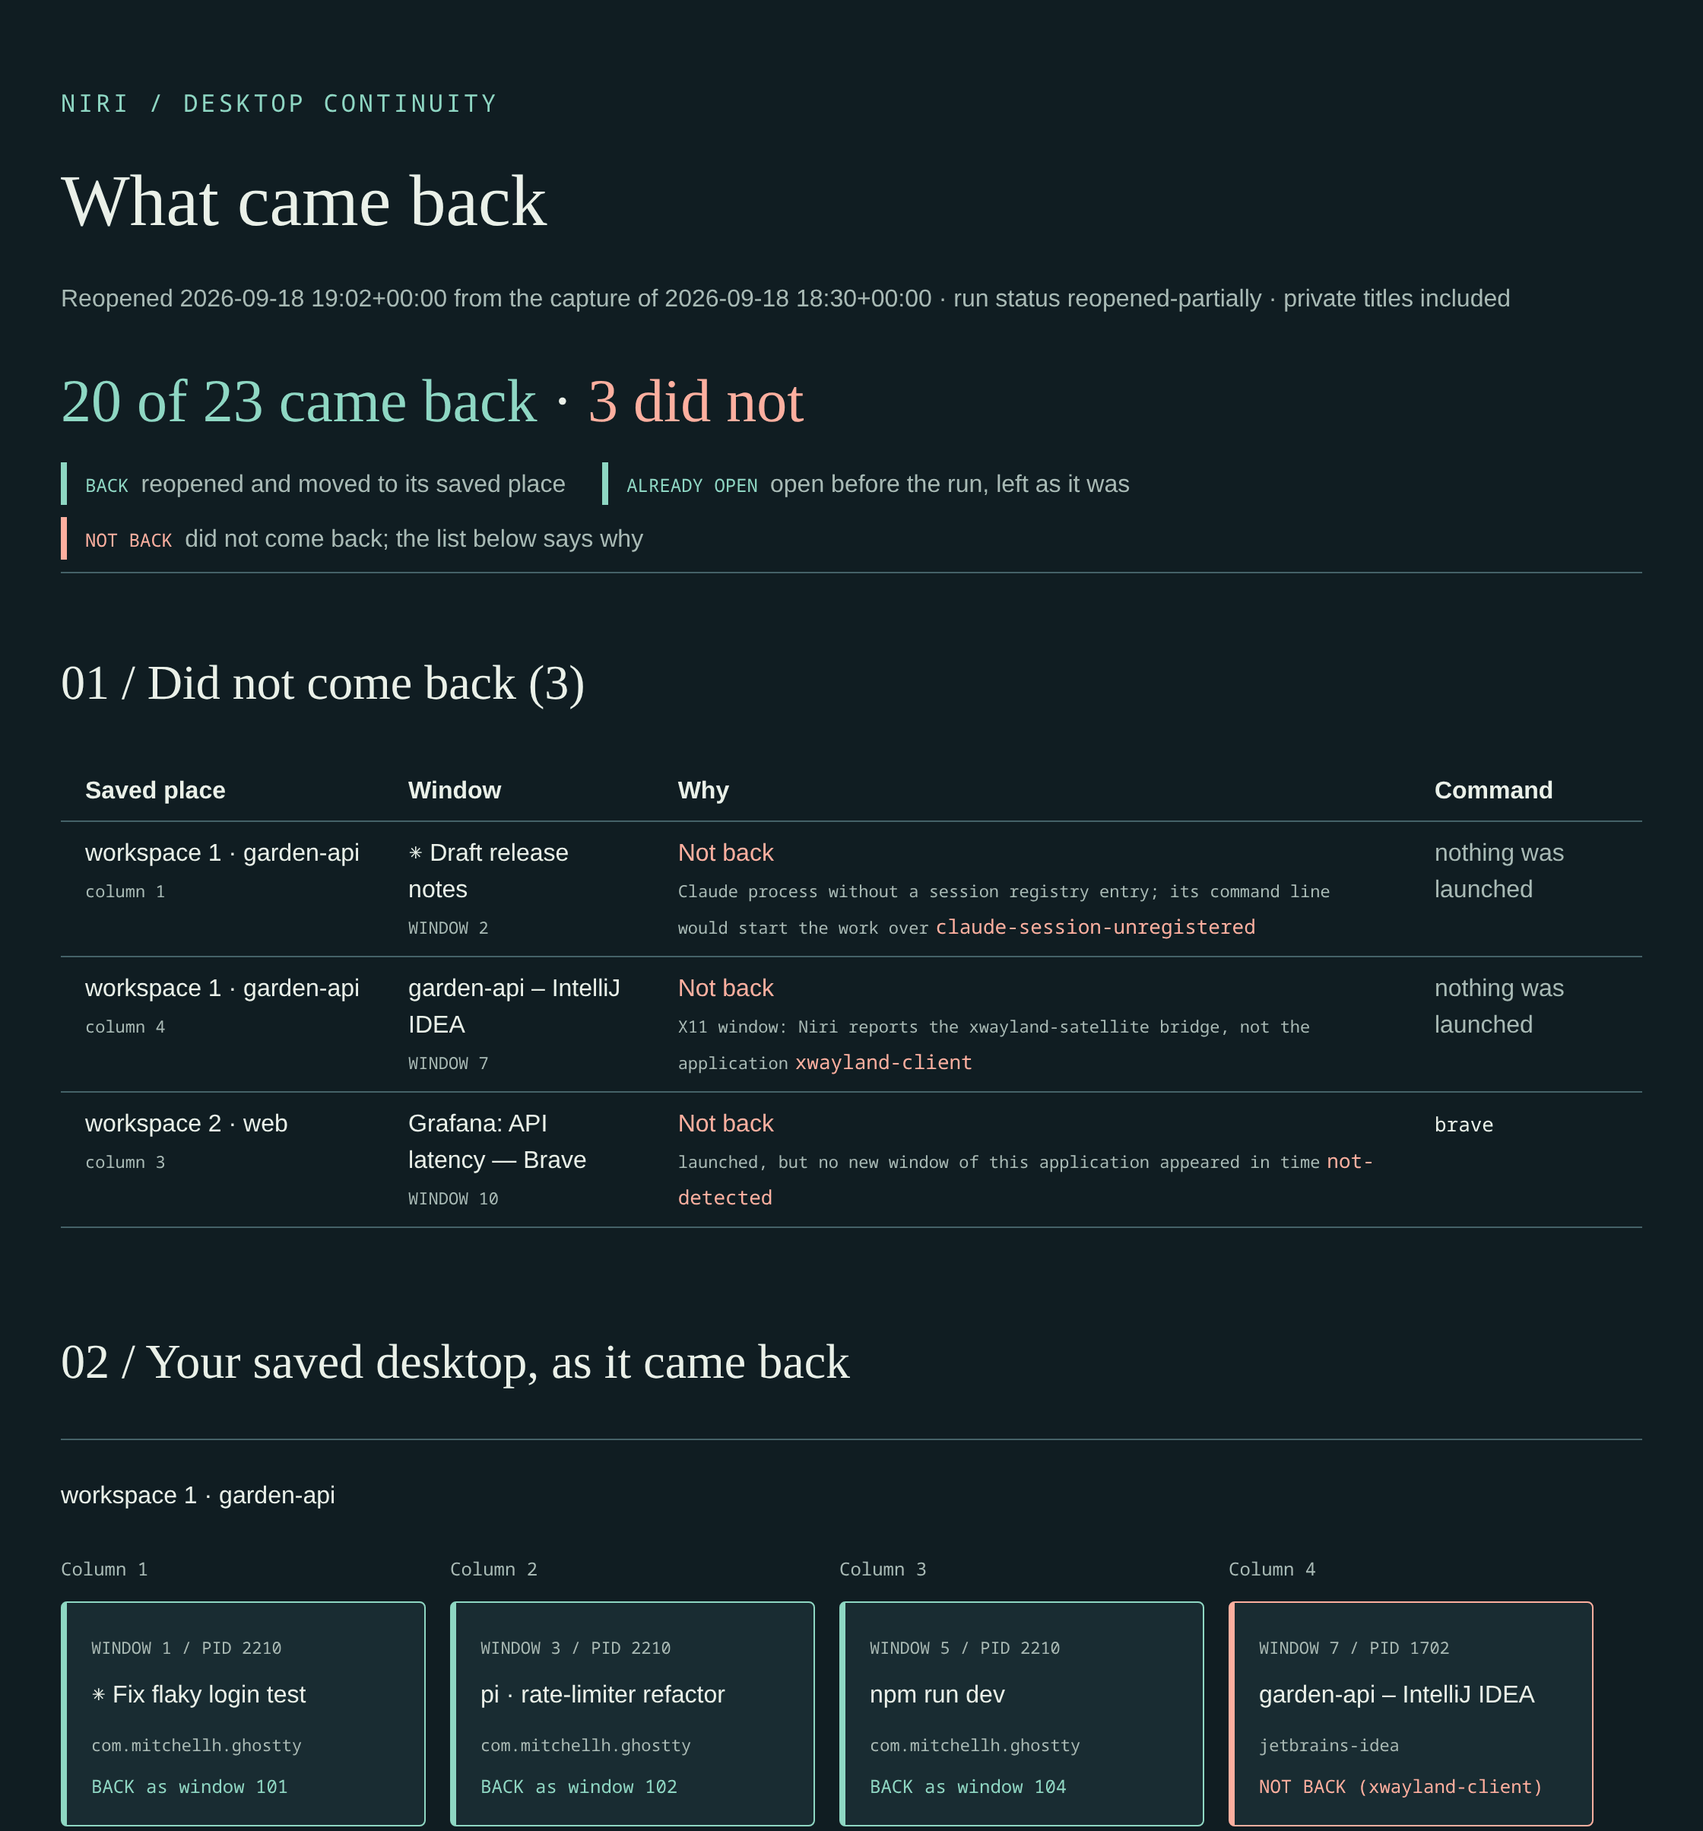
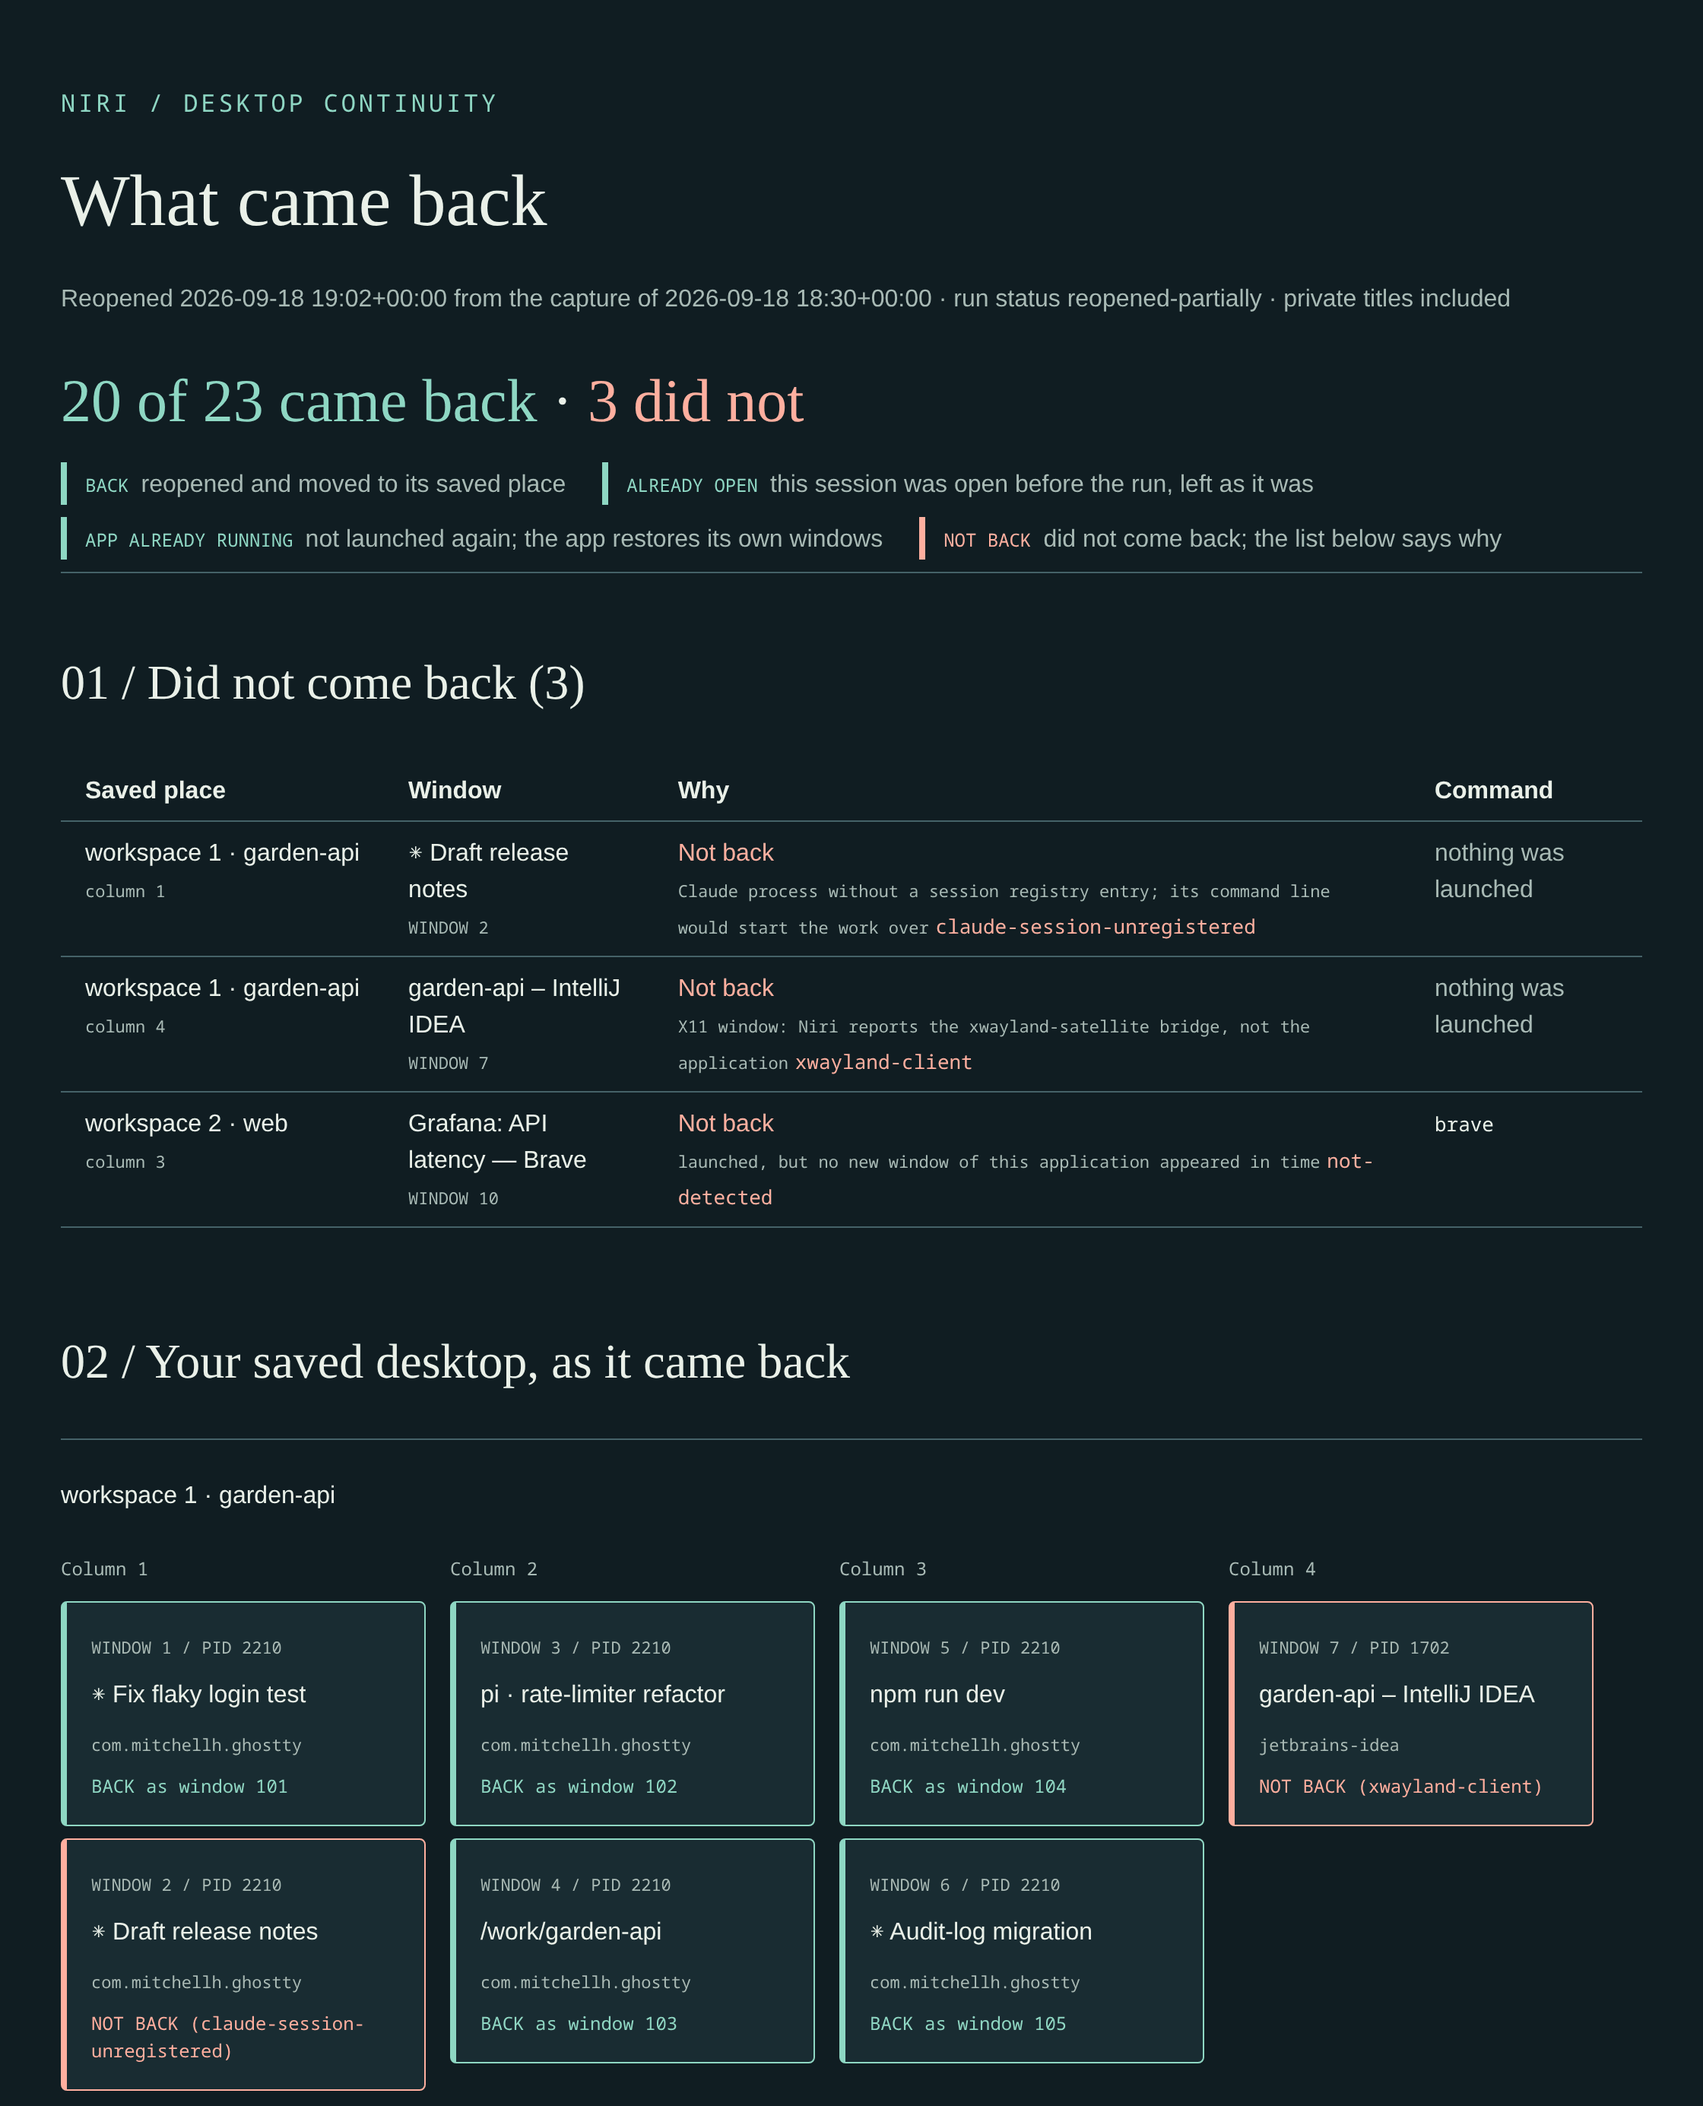
docs(readme): every claim true in code after the third verification
A third read-only check of the committed README against the source
confirmed the six earlier false claims are now true and found one more:
"other terminals reopen without what ran inside them" is false when the
terminal was launched with a command (`kitty -e claude <prompt>`), whose
saved command line replays it. The README now says so under Limits, and
the agent promises name their real scope, a Ghostty tab or a window of
the agent's own. Closing the gap in code is separate work.

Also corrected, as the check proposed: the preview shows saved recipes,
which routes and desktop entries can change (`restore` shows the current
plan); a refused or skipped run writes no result page; the tagline names
which windows stay closed; the nested-Claude example no longer asserts
an upstream fact.

The result page now tells an application that was already running
(APP ALREADY RUNNING: not launched again, the app restores its own
windows) apart from a session that was already open (ALREADY OPEN),
since a running browser says nothing about each saved window. The
legend, design contract, usage, changelog and README screenshot follow.

diff --git a/tests/test_reopen_report.py b/tests/test_reopen_report.py
@@ -105,7 +105,7 @@ def test_page_says_what_came_back_and_lists_every_miss_with_its_reason():
     assert ".back{" in markup and "var(--colors-success)" in markup
     assert ".missed{" in markup and "var(--colors-error)" in markup
     legend = markup[markup.index('class="legend"') : markup.index("</ul>")]
-    for term in ("BACK</b>", "ALREADY OPEN</b>", "NOT BACK</b>"):
+    for term in ("BACK</b>", "ALREADY OPEN</b>", "APP ALREADY RUNNING</b>", "NOT BACK</b>"):
         assert term in legend
 
 
@@ -366,4 +366,4 @@ def test_documentation_demo_run_is_fabricated_and_shows_all_three_outcomes():
     missed = section(markup, "did-not-come-back")
     for code in ("claude-session-unregistered", "xwayland-client", "not-detected"):
         assert f"<code>{code}</code>" in missed
-    assert "ALREADY OPEN" in tile(markup, 16) and "BACK as window 101" in tile(markup, 1)
+    assert "APP ALREADY RUNNING" in tile(markup, 16) and "BACK as window 101" in tile(markup, 1)

diff --git a/src/niri_desktop_continuity/reopen_report.py b/src/niri_desktop_continuity/reopen_report.py
@@ -39,7 +39,9 @@ CSS = """
 LEGEND = (
     '<ul class="legend">'
     '<li class="back"><b>BACK</b>reopened and moved to its saved place</li>'
-    '<li class="back"><b>ALREADY OPEN</b>open before the run, left as it was</li>'
+    '<li class="back"><b>ALREADY OPEN</b>this session was open before the run, left as it was</li>'
+    '<li class="back"><b>APP ALREADY RUNNING</b>not launched again; the app restores its own windows'
+    "</li>"
     '<li class="missed"><b>NOT BACK</b>did not come back; the list below says why</li></ul>'
 )
 
@@ -65,6 +67,8 @@ def badge(row: dict) -> str:
     status = row.get("status")
     if status == "placed":
         return f"BACK as window {escape(row.get('restored_window_id'))}"
+    if status == "already-running":
+        return "APP ALREADY RUNNING"
     if status in BACK:
         return "ALREADY OPEN"
     return f"NOT BACK ({escape(code(row))})"

diff --git a/README.md b/README.md
@@ -6,8 +6,8 @@
 
 **Reboot, log in, and your [niri](https://github.com/YaLTeR/niri) desktop comes back.** Windows
 reopen on their workspaces, in their columns, at their widths. Coding-agent sessions in
-[Ghostty](https://ghostty.org) resume by id. What it cannot reopen safely stays closed and is
-reported.
+[Ghostty](https://ghostty.org) resume by id. Windows it knows it cannot reopen safely, such as X11
+apps and agent tabs without a known session, stay closed and are reported.
 
 It is a single command-line tool built on Python's standard library. Once you opt in, it saves your
 desktop every 15 minutes and reopens it at login. It runs no daemon and makes no network requests.
@@ -29,7 +29,7 @@ says how its window comes back after a reboot, or why it will not.</sub>
 | Codex, or another agent whose `SessionStart` hook passes its session id | The session it announced through `hook` |
 | A command in a Ghostty tab | The same command, started again (`btop`, `just dev`) |
 | A shell in a Ghostty tab | A shell in the same directory |
-| An X11 window, or an agent with no known session | Not reopened; the preview and the plan say why |
+| An X11 window, or an agent tab in Ghostty with no known session | Not reopened; the preview and the plan say why |
 
 Applications restore their own content. Tabs, documents and drafts are theirs to bring back.
 
@@ -39,7 +39,7 @@ Applications restore their own content. Tabs, documents and drafts are theirs to
 - Python 3.11 or newer. There are no third-party runtime dependencies.
 - `xdg-open` (xdg-utils), to open the result page. Without it the page is still written.
 - Ghostty, for terminal tabs and the sessions in them. Other terminals reopen as ordinary
-  applications, without what ran inside them.
+  applications; see [Limits](#limits).
 
 ## Install
 
@@ -61,8 +61,9 @@ niri-desktop-continuity capture
 niri-desktop-continuity preview    # prints the path of an offline HTML page; open it in a browser
 ```
 
-The page's **After a reboot** section lists every saved window with its reopen recipe (kind, command
-and directory) or the reason it will not reopen.
+The page's **After a reboot** section lists every saved window with its saved reopen recipe (kind,
+command and directory) or the reason it will not reopen. Your routes and desktop entries can change
+the command that actually runs; `restore` without `--apply` shows the plan for the current desktop.
 
 ![The "After a reboot" section of the preview for the same demo desktop: 21 of 23 reopen; an unregistered Claude session and an X11 IDE will not, each with its reason](https://raw.githubusercontent.com/tryingET/niri-desktop-continuity/main/docs/assets/preview-after-reboot.png)
 
@@ -91,9 +92,12 @@ niri has no atomic focus-and-move, so input during the run can send a column to 
 
 When the run is over, its result page opens in your browser: that is your sign that the windows have
 settled. It says how many windows came back, lists every window that did not with the reason, and
-shows your saved desktop with each window marked `BACK`, `ALREADY OPEN` or `NOT BACK`.
+shows your saved desktop with each window marked `BACK`, `ALREADY OPEN` (a session that was open
+already), `APP ALREADY RUNNING` (not launched again; the app restores its own windows) or
+`NOT BACK`. A run that was refused or skipped, for example because the capture came from the niri
+that is running now, writes no page; the journal below says why.
 
-![The result page of a fabricated login run on the demo desktop: 20 of 23 came back and 3 did not, a legend for BACK, ALREADY OPEN and NOT BACK, the three misses with their reasons, then the saved desktop with each window marked](https://raw.githubusercontent.com/tryingET/niri-desktop-continuity/main/docs/assets/reopen-result.png)
+![The result page of a fabricated login run on the demo desktop: 20 of 23 came back and 3 did not, a legend for BACK, ALREADY OPEN, APP ALREADY RUNNING and NOT BACK, the three misses with their reasons, then the saved desktop with each window marked](https://raw.githubusercontent.com/tryingET/niri-desktop-continuity/main/docs/assets/reopen-result.png)
 
 <sub>A fabricated login run on the demo desktop: Thunderbird had started itself, Brave reopened two of
 its three windows, and the two windows that are never replayed stayed closed.</sub>
@@ -144,9 +148,10 @@ second time.
 ## Agent sessions
 
 A recognised agent (`claude`, `codex`, `pi`, `angel` or `angelx`, `aider`, `gemini`, `opencode`, `goose`,
-`crush`, `qwen`, `grok`, `cursor-agent`) comes back only through a session it announced or one you
-declared. It is never relaunched from its command line, which would replay its opening prompt and
-start the same work over.
+`crush`, `qwen`, `grok`, `cursor-agent`) in a Ghostty tab or in a window of its own comes back only
+through a session it announced or one you declared. It is never relaunched from its command line,
+which would replay its opening prompt and start the same work over. Other terminals are not looked
+inside; see [Limits](#limits).
 
 - **Claude Code and Pi:** read directly. Nothing to set up.
 - **nodecode 0.1.6 and later:** records its own session. Nothing to set up.
@@ -163,8 +168,8 @@ start the same work over.
   where a tab should come back.
 - **angelX:** cannot announce a session yet, so its tabs are not reopened unless you declare them.
 
-A session this tool cannot resume, such as a Claude Code session started inside another one (it has
-no registry entry), can come back as a fresh session. Declare it while it still runs:
+A session this tool cannot resume, such as a Claude Code session missing from Claude's session
+registry, can come back as a fresh session. Declare it while it still runs:
 
 ```sh
 niri-desktop-continuity declare --pid <pid> -- claude "Continue from docs/handoff.md"
@@ -182,8 +187,8 @@ When it saves and reopens your desktop:
   go after them. Input during the run can still misdirect a move, which is why you stay idle.
 - **It launches each saved application instance at most once.** Only new windows with that
   application's app ID are adopted, never a window of another application.
-- **It does not replay an agent it cannot resume.** A recognised agent without an announced session
-  or a declaration is not relaunched.
+- **It does not replay an agent it cannot resume.** A recognised agent in a Ghostty tab or in a
+  window of its own is not relaunched without an announced session or a declaration.
 - **It refuses what it cannot identify.** An X11 window, an AppImage it cannot resolve or a window
   whose process it cannot read is reported, not launched.
 - **It drops saved sign-in and deep links.** When an application falls back to its saved command
@@ -208,6 +213,9 @@ When it saves and reopens your desktop:
 - **Applications decide how many windows they reopen.** If a browser restores fewer windows than were
   saved, the rest are reported `not-detected`; it is never launched a second time.
 - **Sessions in other tabs of one Ghostty window reopen as separate windows.**
+- **Other terminals are not looked inside.** kitty, foot, Alacritty, WezTerm and the rest reopen
+  from their own command line: what you started in them is not reopened, but a command they were
+  launched with (`kitty -e …`) runs again, even an agent with its opening prompt.
 - **Workspaces are matched by position, not by monitor.** Windows return to the first, second or
   third workspace and so on, with empty gaps closed up; which monitor they were on is not restored.
   Saved workspace names are set again, even on a workspace that has another name now.

diff --git a/DESIGN.md b/DESIGN.md
@@ -74,7 +74,8 @@ columns run horizontally with tiles grouped inside them. Floating windows have a
 
 Use the front-matter palette. Amber always means caution, not successful recovery. Teal may
 mark selected scope or a measured predicate, never unverified application state. On a reopen
-result page, success marks a window Niri reported during the run (back, or already open) and error
+result page, success marks a window Niri reported during the run (back, already open, or its
+application already running) and error
 marks one that did not come back. Both repeat a text status; application content stays unverified.
 
 ## Typography
@@ -108,10 +109,11 @@ On snapshot previews each tile states its reopen outcome in text (`reopens as <k
 `not reopened (<reason>)`), and the after-reboot ledger lists every window and tab session with
 a count summary, the exact recorded command and a plain-language reason for each miss. A miss is
 amber (caution); a reopen is plain text, never teal, because a recipe is not verified state.
-On a reopen result page each tile states `BACK as window <id>`, `ALREADY OPEN` or
-`NOT BACK (<reason>)`, with a 4px left edge in success or error, and each tab session gets its own
-line. A legend under the summary explains the three outcomes. The did-not-come-back list gives the saved place, the window, a plain-language reason with
-its code and the launched command, or that nothing was launched.
+On a reopen result page each tile states `BACK as window <id>`, `ALREADY OPEN` (a session),
+`APP ALREADY RUNNING` or `NOT BACK (<reason>)`, with a 4px left edge in success or error, and each
+tab session gets its own line. A legend under the summary explains the outcomes. The
+did-not-come-back list gives the saved place, the window, a plain-language reason with its code and
+the launched command, or that nothing was launched.
 
 ## Do's and Don'ts
 

diff --git a/docs/usage.md b/docs/usage.md
@@ -131,7 +131,9 @@ window did not come back, or the run was refused or interrupted. `last-reopened`
 snapshot reopened fully or partially. Each `--apply` receipt also gets an offline result page,
 `previews/<receipt-digest>.html`, returned as `report` in the output (`report_error` if it could
 not be written; the run's result and receipt are unchanged). It marks each saved window and tab
-session `BACK as window <id>`, `ALREADY OPEN` or `NOT BACK (<reason>)` and lists the misses with a
+session `BACK as window <id>`, `ALREADY OPEN` (its session's resume command was open),
+`APP ALREADY RUNNING` (the app had a window, so none of its saved windows was launched) or
+`NOT BACK (<reason>)` and lists the misses with a
 plain-language reason. As the run's last step, after the layout and focus are restored, it asks Niri
 to open the page with `xdg-open` (`report_open: requested`); `--no-open` skips that
 (`report_open: skipped`), and a missing `xdg-open` or failed spawn becomes `report_open_error`

diff --git a/CHANGELOG.md b/CHANGELOG.md
@@ -14,8 +14,9 @@ nothing has run the strict engine since.
 
 - `restore --apply`, including the login run, writes a result page for its run, adds its path to
   the output as `report` and opens it in your browser as its last step, so you see when it is done
-  (`--no-open` skips that). Every saved window is marked `BACK`, `ALREADY OPEN` or `NOT BACK`, in
-  green or red, and the windows that did not come back are listed with the reason.
+  (`--no-open` skips that). Every saved window is marked `BACK`, `ALREADY OPEN`,
+  `APP ALREADY RUNNING` or `NOT BACK`, in green or red, and the windows that did not come back are
+  listed with the reason.
   `preview --kind receipts` writes the page again for the latest run, or for any run by its receipt
   digest.
 
